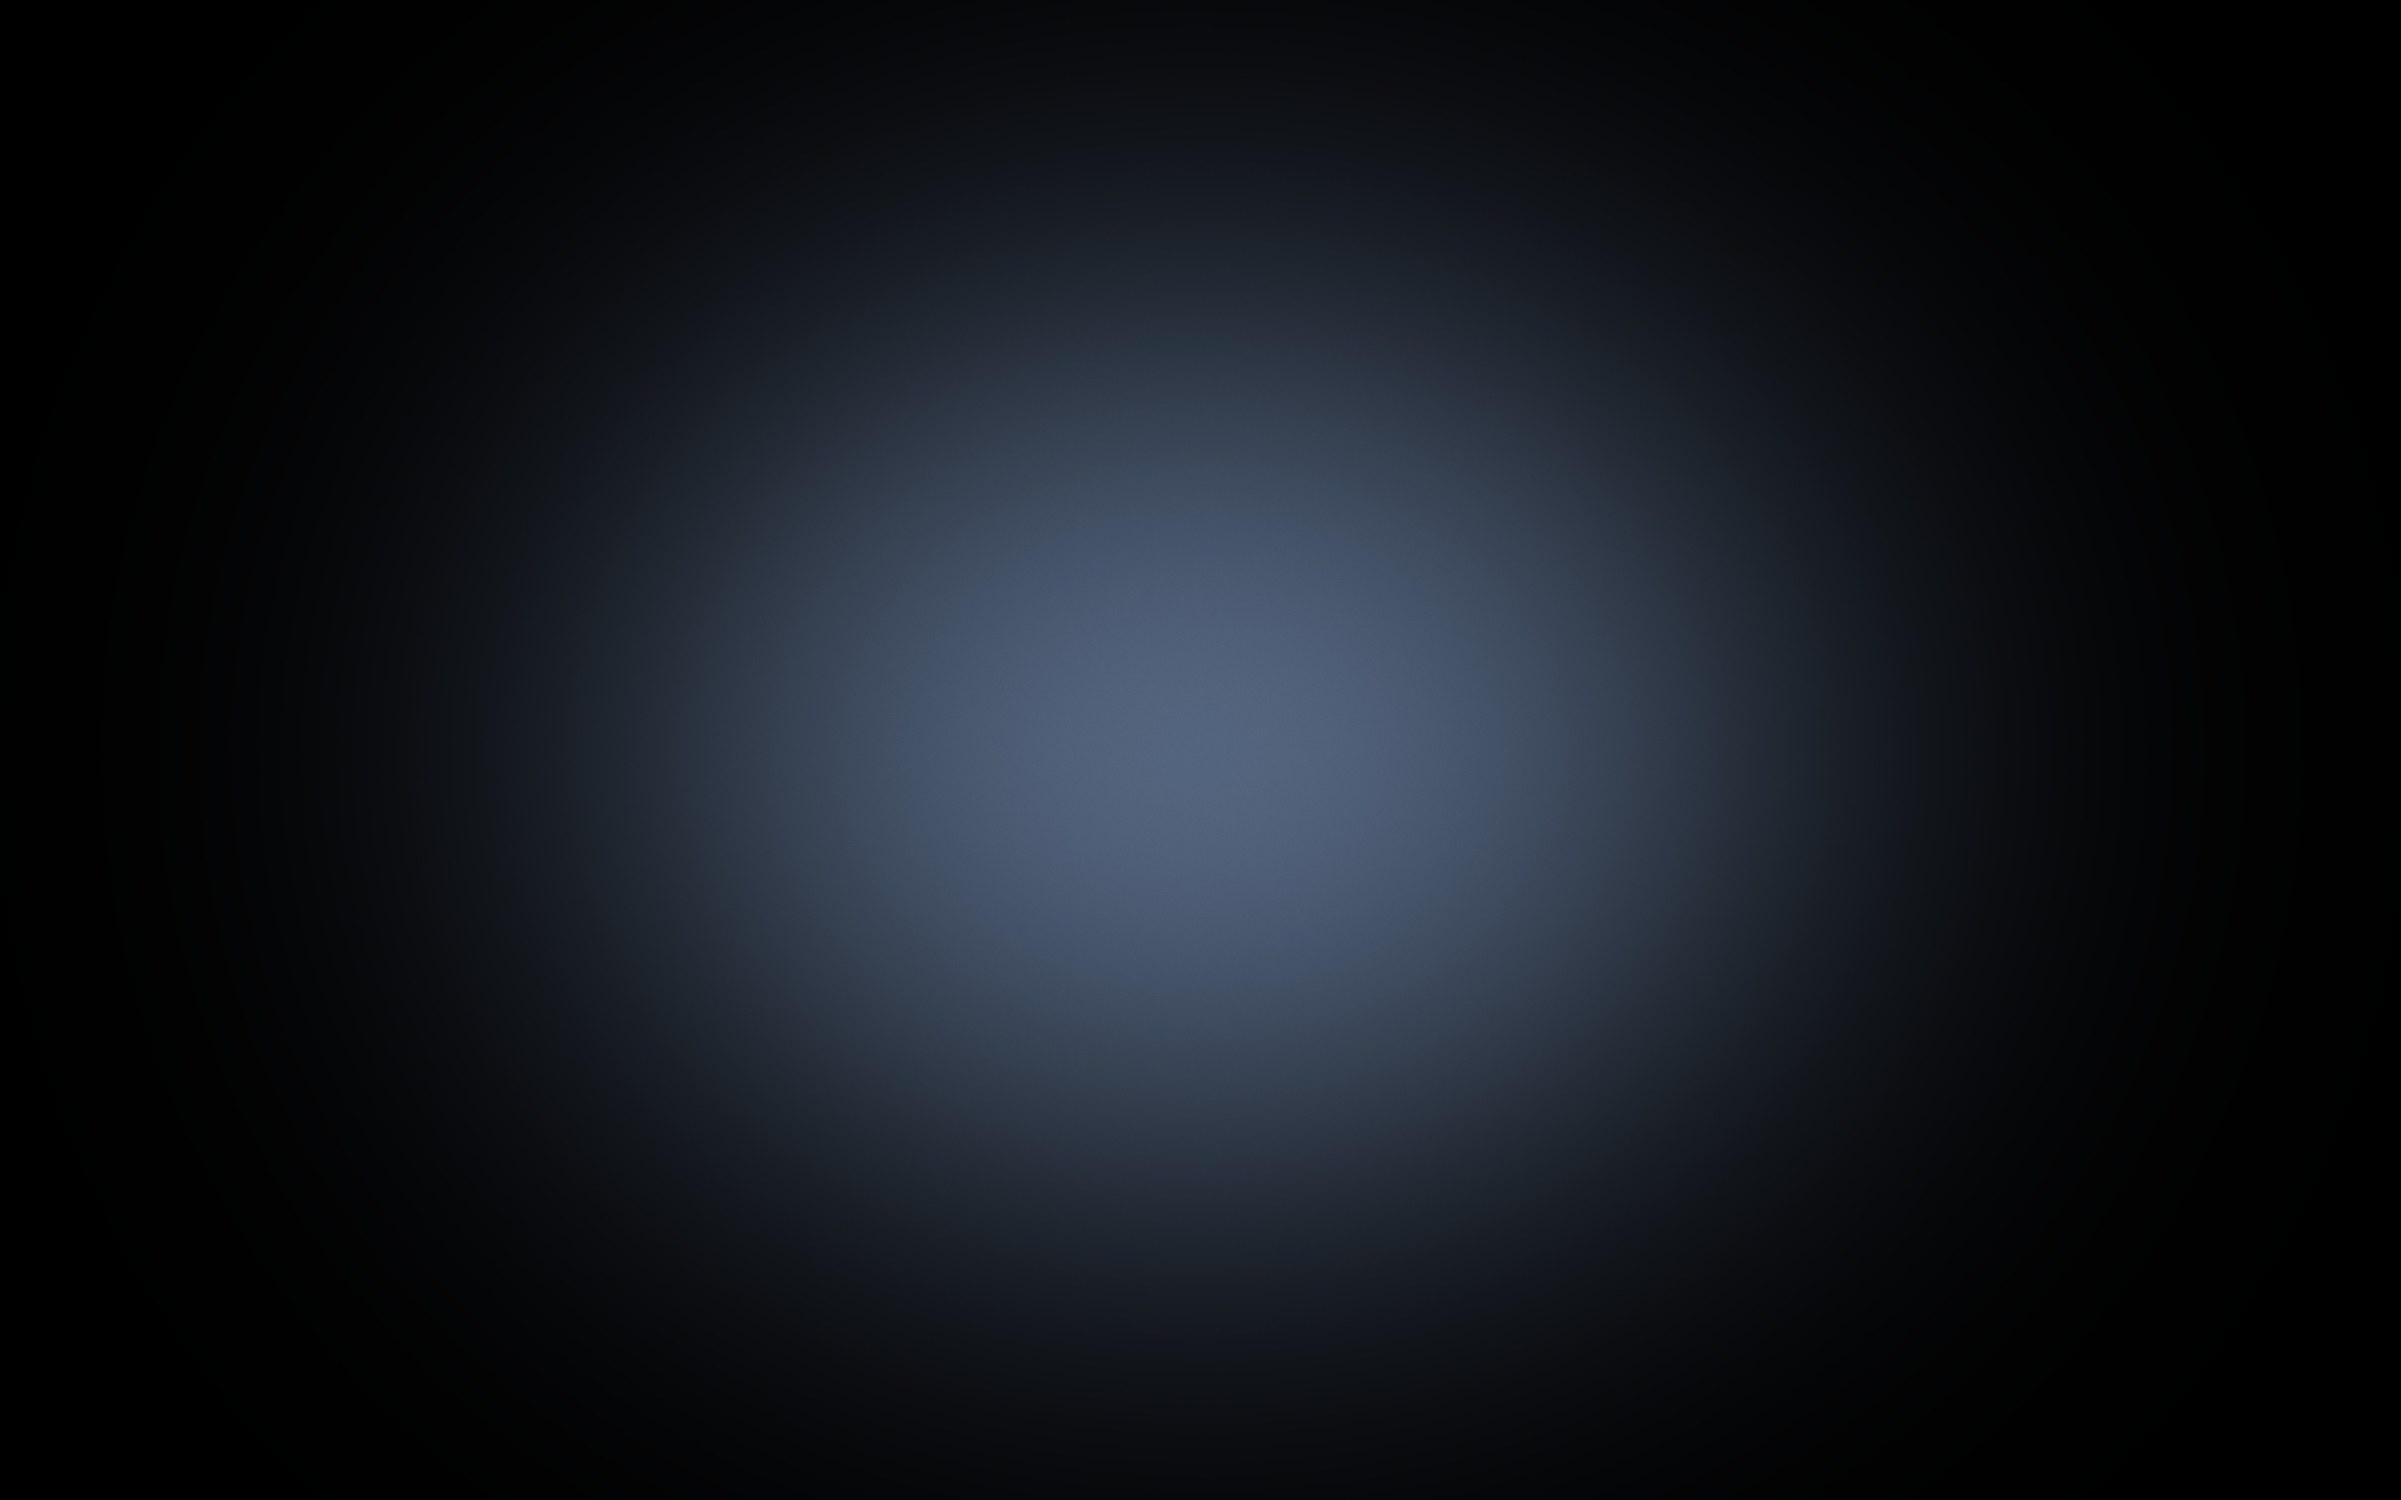
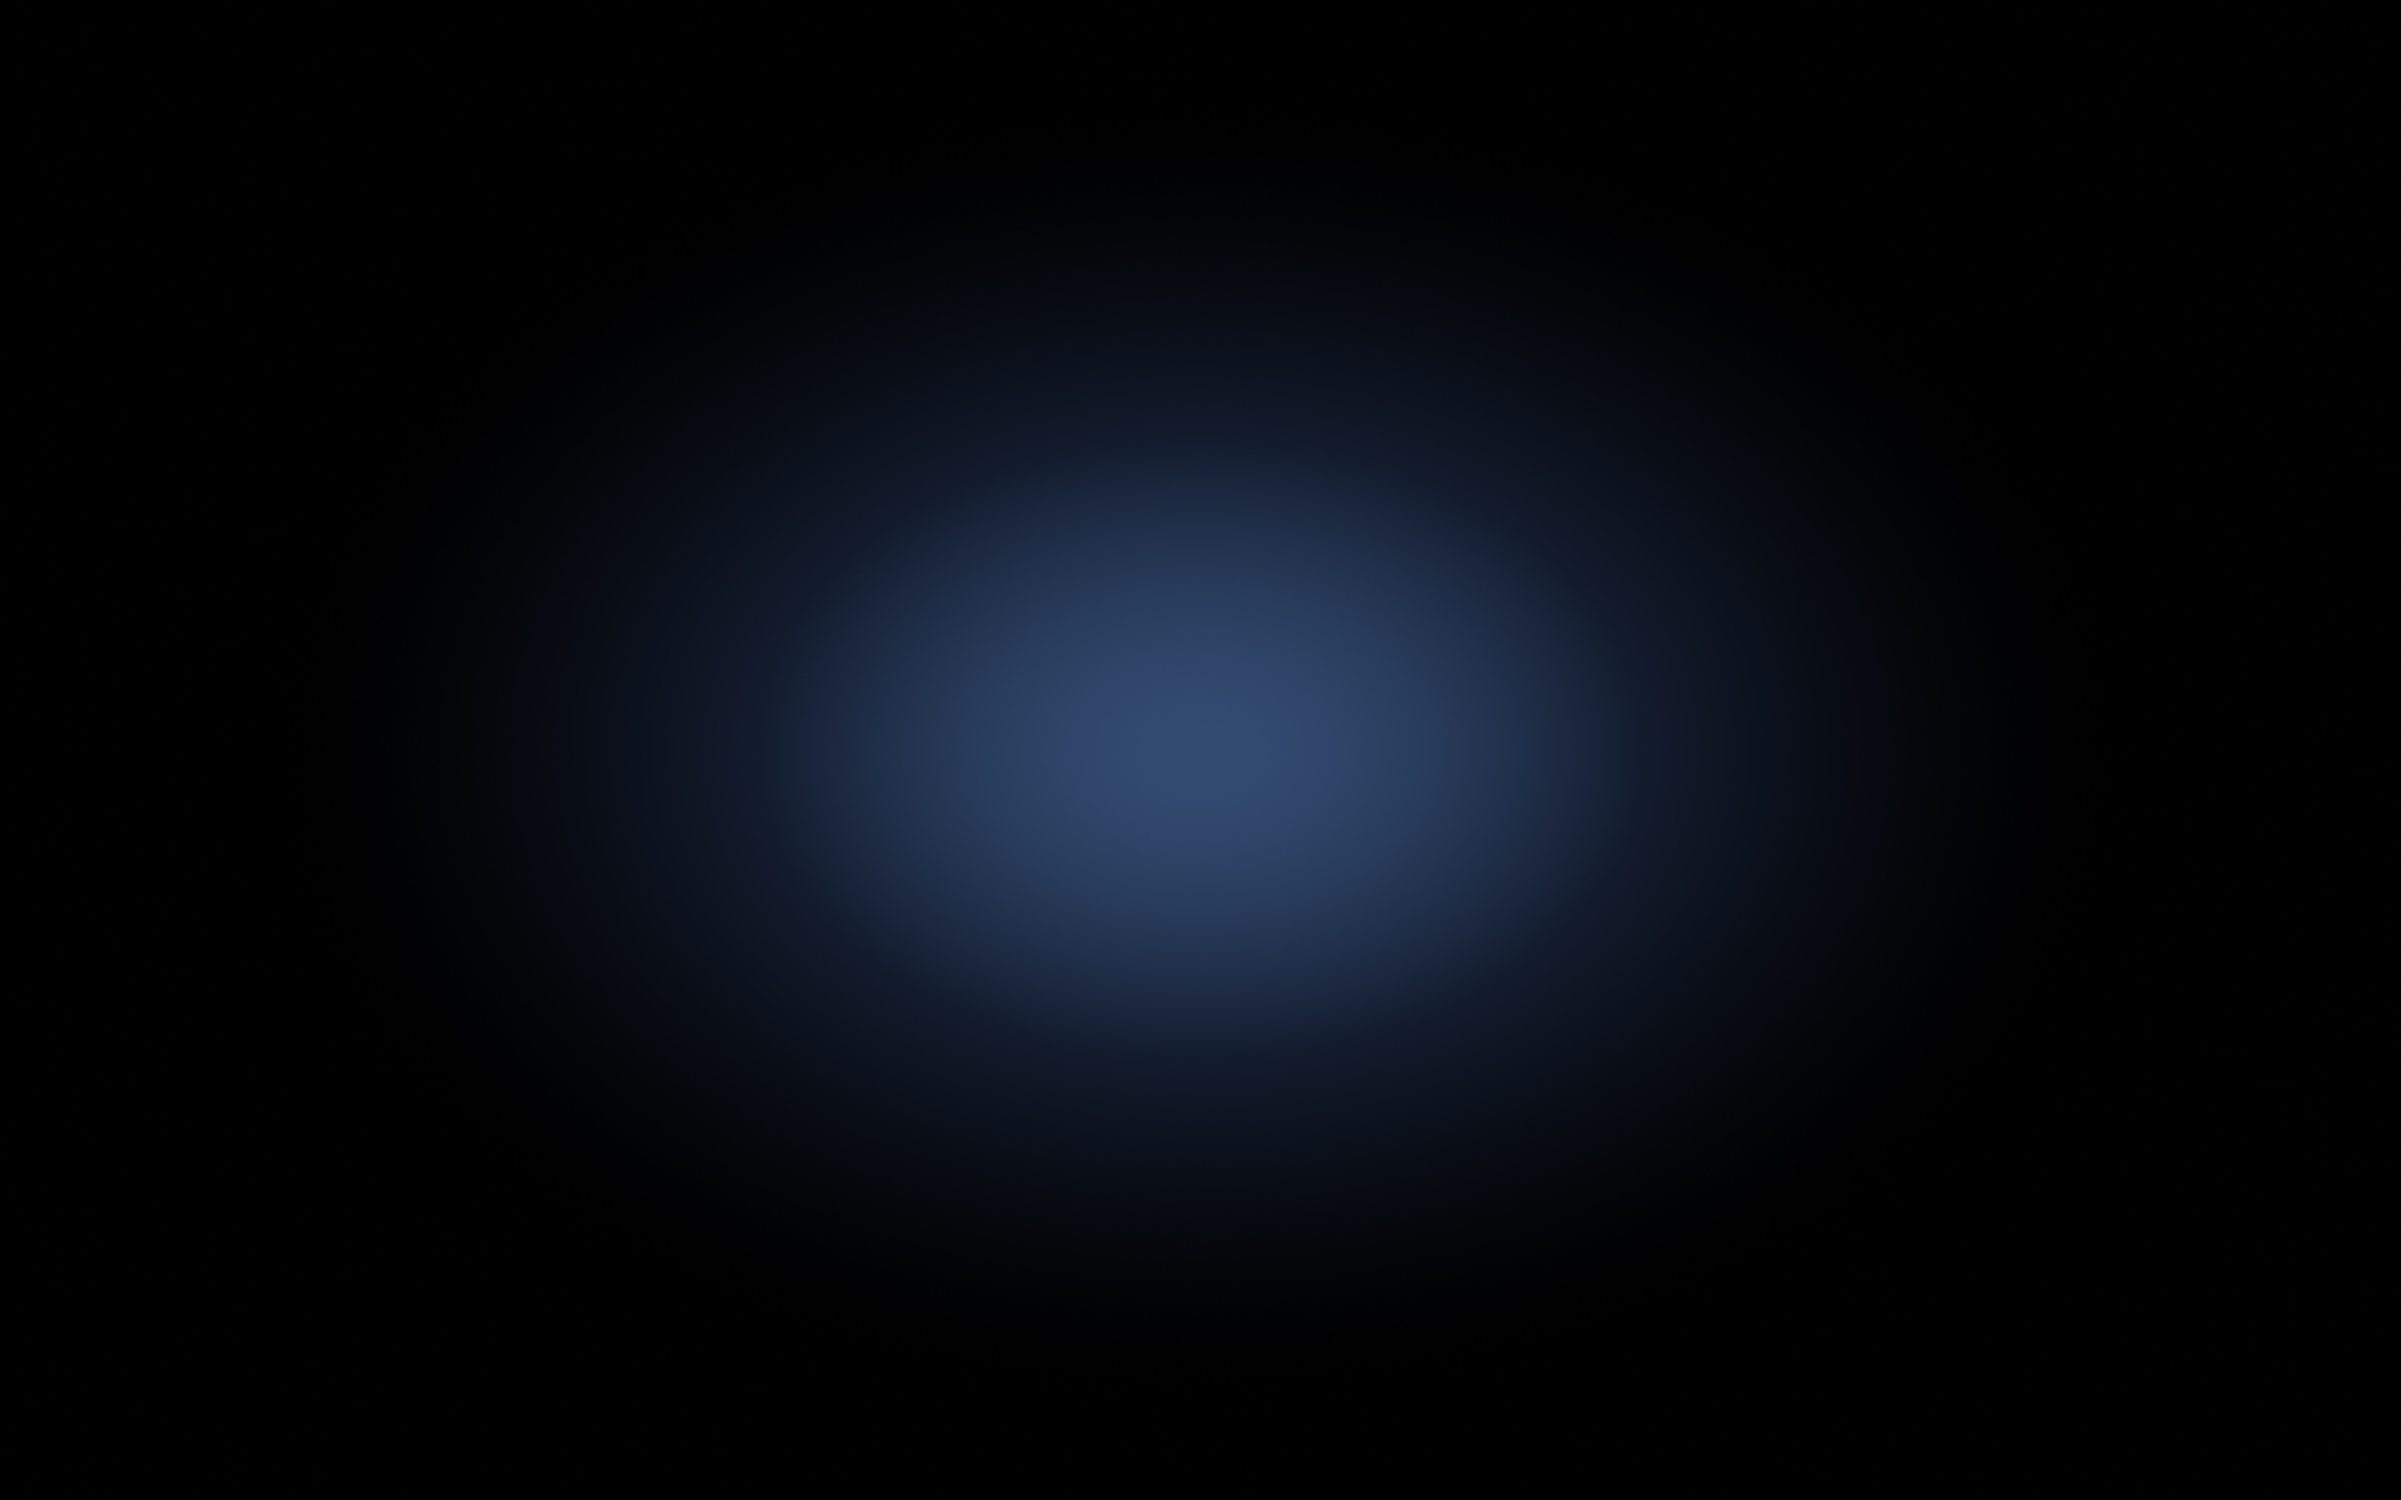
minimal: full moon wallpaper, softer pastel blue glow
full-moon.jpg is NASA SVS's Dial-A-Moon full Moon (LRO data, public
domain), downscaled in linear light to 900 px across and centred on
black at 3840x2400. It is the current Linux wallpaper.

pastel-blue-glow.jpg is regenerated as a clean elliptical gradient with
a smoothstep falloff and a dim blue core, replacing the uneven
slate-grey hotspot. The README records both recipes.

diff --git a/minimal/README.md b/minimal/README.md
@@ -1,6 +1,21 @@
 # Minimal wallpapers
 
-## Blue mountain, green sun — current wallpaper (Linux)
+## Full moon — current wallpaper (Linux)
+
+![The full Moon, centred on black](full-moon.jpg)
+
+- File: `full-moon.jpg`
+- Resolution: 3840 × 2400 pixels; the Moon is 900 px across, centred on pure black.
+- Source: NASA Scientific Visualization Studio, [Moon Phase and Libration, 2023](https://svs.gsfc.nasa.gov/5048) (`phase_full.1571.tif`, 3240 × 3240, the Moon 2777 px across). Rendered by Ernie Wright (USRA) from Lunar Reconnaissance Orbiter data: LROC WAC colour mosaics over LOLA elevation.
+- License: public domain (NASA imagery). Credit: NASA's Scientific Visualization Studio.
+- Downscaled in linear light, so the bright highlands don't darken at the edges, then placed on black:
+
+  ```sh
+  magick phase_full.1571.tif -colorspace RGB -filter Lanczos -resize 1050x1050 -colorspace sRGB \
+    -background black -gravity center -extent 3840x2400 -quality 95 full-moon.jpg
+  ```
+
+## Blue mountain, green sun (Linux)
 
 ![Blue mountain silhouette against a green sun on black](blue-mountain-green-sun.jpg)
 
@@ -34,3 +49,14 @@ Mostly black, with a small centred mountain and sun, so it stays out of the way 
 - File: `pastel-blue-glow.jpg`
 - Resolution: 3840 × 2400 pixels.
 - Previously the Linux default wallpaper; still used as-is anywhere a near-black, low-detail background is wanted.
+- Generated, replacing the original slate-grey glow, whose egg-shaped hotspot was uneven. A clean 16-bit elliptical radial gradient is eased with smoothstep (`3u² − 2u³`, so there is no bright point and no hard edge), capped at 55% so the core stays a dim blue (`#324a70`), mapped through a black → navy → mid-blue → pastel ramp, and dithered with light noise against banding:
+
+  ```sh
+  magick \( -size 1x300 gradient:black-'#121b2c' \) \( -size 1x380 gradient:'#121b2c'-'#41608f' \) \
+    \( -size 1x344 gradient:'#41608f'-'#a8c8f0' \) -append -rotate -90 clut.png
+  magick -size 3840x2400 -depth 16 -define gradient:radii=1500,1050 radial-gradient:white-black \
+    -fx 'u*u*(3-2*u)*0.55' -colorspace sRGB -type TrueColor clut.png -clut \
+    -attenuate 0.4 +noise Uniform -quality 94 pastel-blue-glow.jpg
+  ```
+
+  Raise `0.55` for a brighter core (1.0 reaches the full pastel `#a8c8f0`), or change `radii` to resize the glow.
